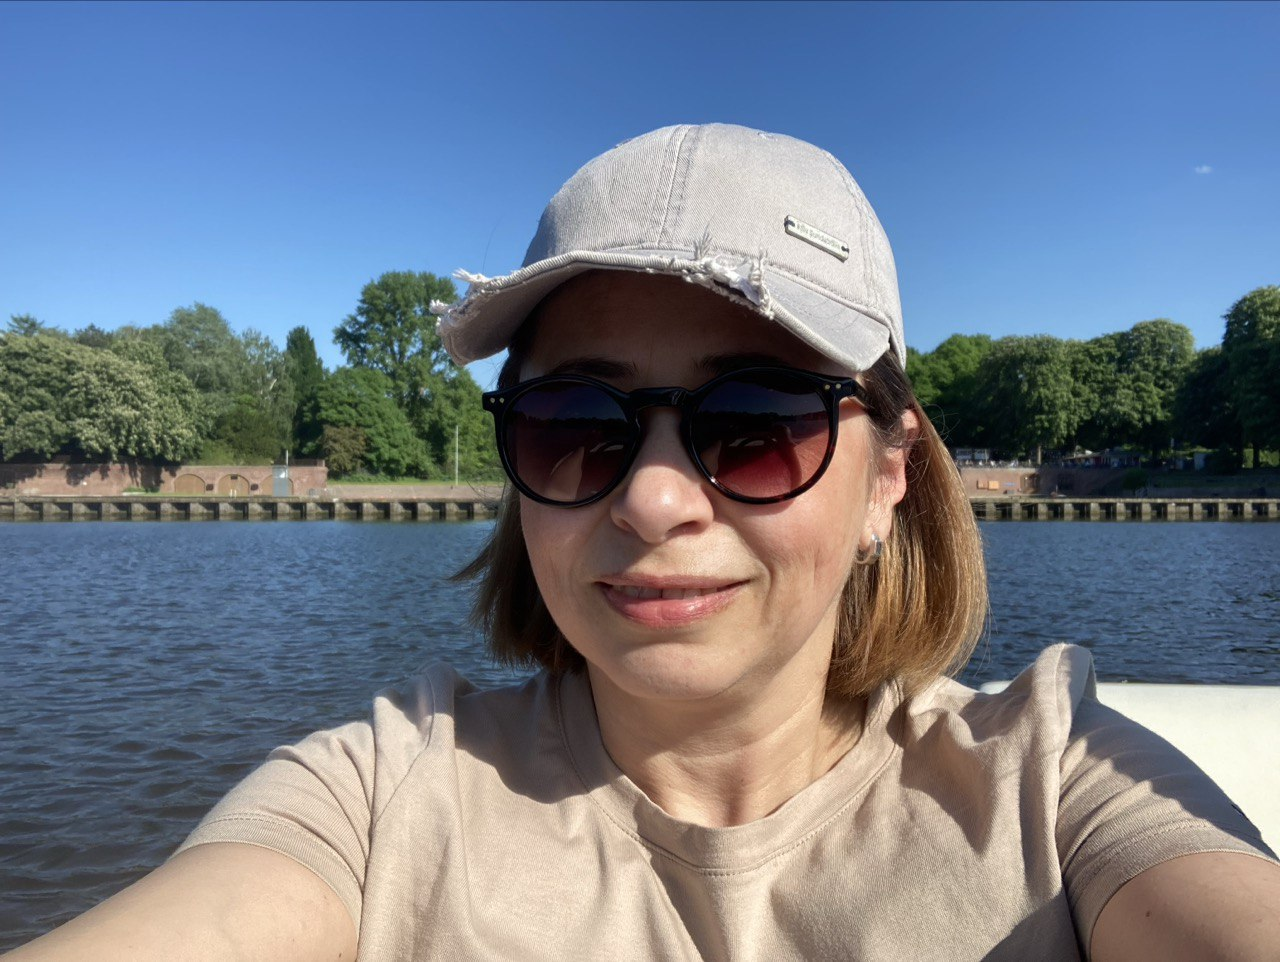
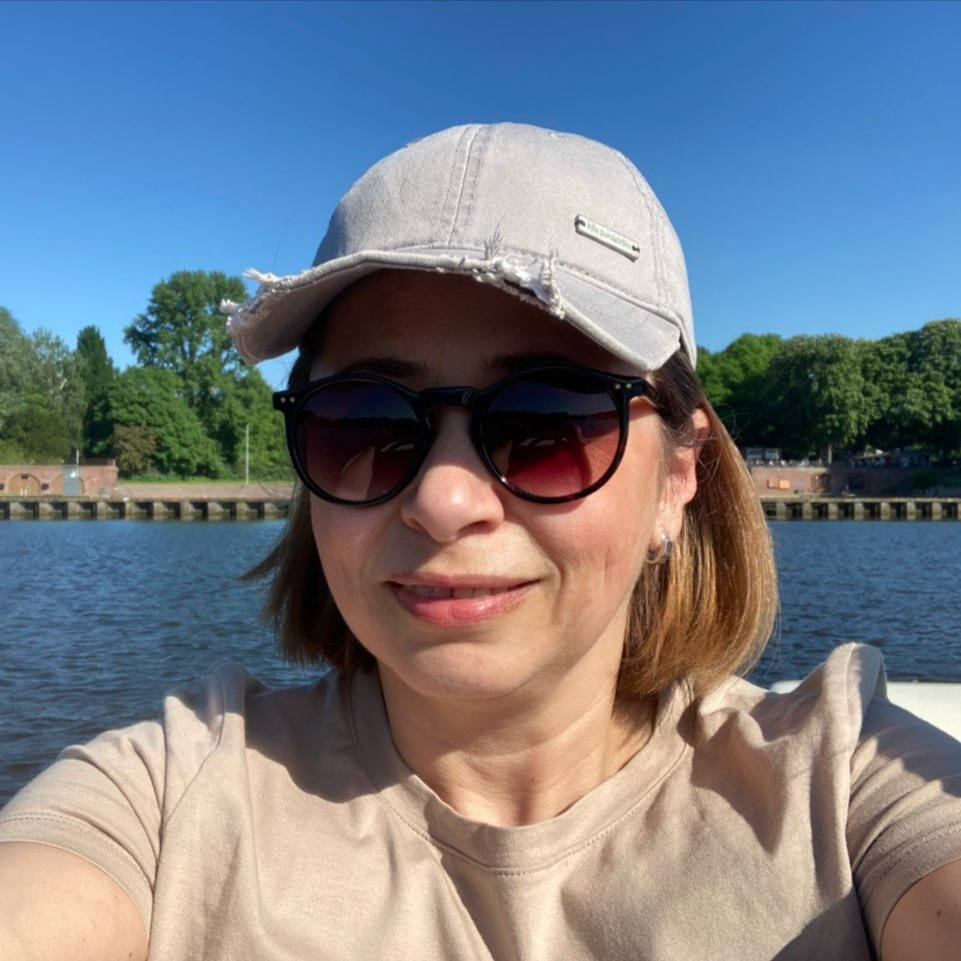
bou us. change3

diff --git a/src/pages/AboutUs/AboutUs.tsx b/src/pages/AboutUs/AboutUs.tsx
@@ -4,7 +4,7 @@ import vladislavMagidPhoto from "assets/aboutUs/vladislavMagid.png"
 import doinaSirbuPhoto from "assets/aboutUs/doinaSirbu.png"
 import elviraKhismatullinaPhoto from "assets/aboutUs/elviraKhismatullina.png"
 import vladimirGavriliukPhoto from "assets/aboutUs/vladimirGavriliuk.png"
-import vladZatoplyaevPhoto from "assets/aboutUs/vladZatoplyaev.png"
+import vladZatoplyaevPhoto from "assets/aboutUs/vladislavZatoplyaev.jpg"
 import dimitriDielPhoto from "assets/aboutUs/dimitriDiel.jpg"
 import maksymBilousenkoPhoto from "assets/aboutUs/maksymBilousenko.jpg"
 import veraArkindPhoto from "assets/aboutUs/veraArkind.jpg"

diff --git a/src/components/DeveloperCard/styles.ts b/src/components/DeveloperCard/styles.ts
@@ -12,7 +12,8 @@ export const CardWrapper = styled.div`
 `
 
 export const AvatarStyles = styled.img`
-  width: 100%;
+  /* height: 40;
+  width: 10; */
   border-radius: 20px;
 `
 export const Name = styled.p`
